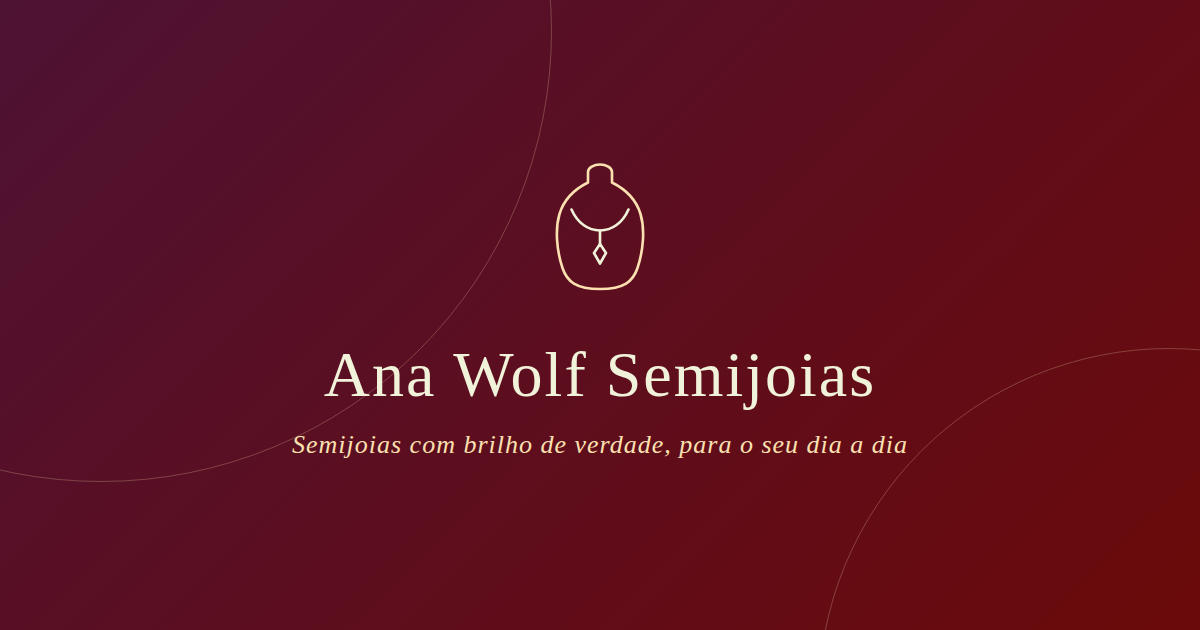
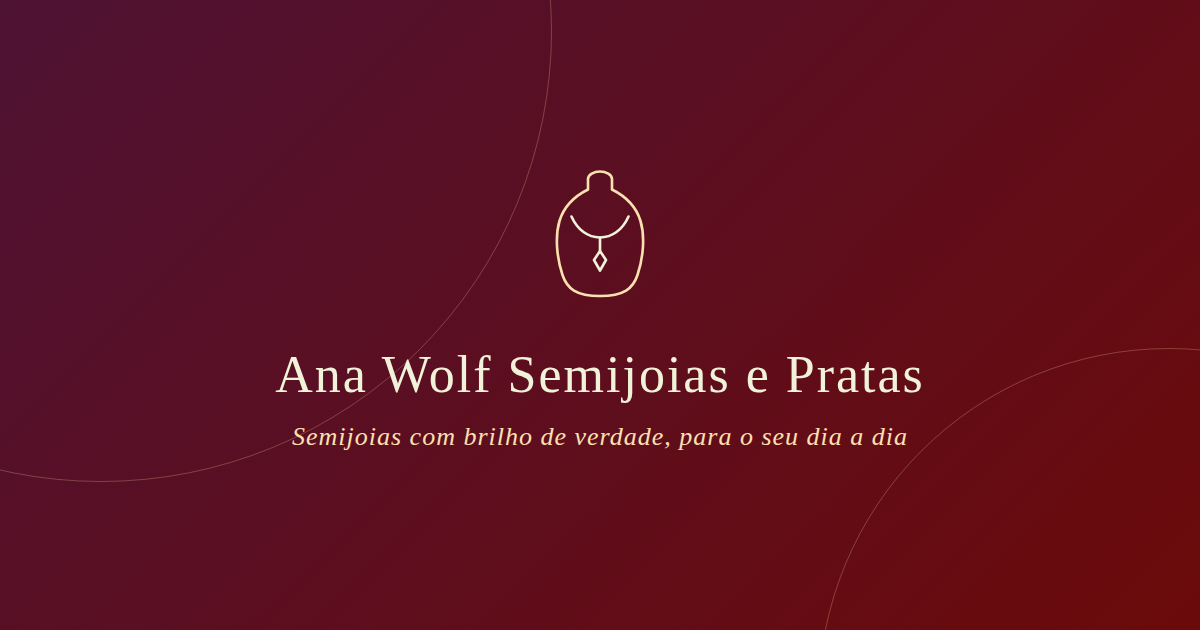
Renomeia marca para Ana Wolf Semijoias e Pratas
Atualiza título, header, hero, footer, mensagem de WhatsApp e og.png
para o novo nome. Troca o texto de rodapé que indicava ambiente de
teste por um aviso de direitos reservados com o ano atual. Também
ajusta o header para truncar o nome mais longo em telas estreitas,
evitando que ele encoste no botão do carrinho.

Changed region(s): [[0.2158, 0.5429, 0.7708, 0.6635], [0.2467, 0.6635, 0.7708, 0.7238], [0.4625, 0.2413, 0.555, 0.4825]]

diff --git a/components/Header.tsx b/components/Header.tsx
@@ -10,13 +10,15 @@ export default function Header() {
   return (
     <header className="sticky top-0 z-40 bg-vinho text-creme shadow-md">
       <div className="mx-auto flex max-w-5xl items-center justify-between px-4 py-3">
-        <Link href="/" className="flex items-center gap-2">
-          <Logo className="h-9 w-9 text-areia" />
-          <span className="font-display text-lg tracking-wide">Ana Wolf Semijoias</span>
+        <Link href="/" className="flex min-w-0 items-center gap-2">
+          <Logo className="h-9 w-9 shrink-0 text-areia" />
+          <span className="truncate font-display text-sm tracking-wide sm:text-lg">
+            Ana Wolf Semijoias e Pratas
+          </span>
         </Link>
         <Link
           href="/carrinho"
-          className="relative rounded-full border border-areia/60 px-4 py-2 text-sm font-medium text-creme transition hover:bg-areia hover:text-vinho"
+          className="relative shrink-0 rounded-full border border-areia/60 px-4 py-2 text-sm font-medium text-creme transition hover:bg-areia hover:text-vinho"
         >
           Carrinho
           {count > 0 && (

diff --git a/app/layout.tsx b/app/layout.tsx
@@ -21,23 +21,23 @@ const siteUrl = "https://anawolfsemijoias.vercel.app";
 
 export const metadata: Metadata = {
   metadataBase: new URL(siteUrl),
-  title: "Ana Wolf Semijoias",
+  title: "Ana Wolf Semijoias e Pratas",
   description: "Semijoias com brilho de verdade, para o seu dia a dia.",
   icons: {
     icon: "/icon.svg",
   },
   openGraph: {
-    title: "Ana Wolf Semijoias",
+    title: "Ana Wolf Semijoias e Pratas",
     description: "Semijoias com brilho de verdade, para o seu dia a dia.",
     url: siteUrl,
-    siteName: "Ana Wolf Semijoias",
+    siteName: "Ana Wolf Semijoias e Pratas",
     images: [{ url: "/og.png", width: 1200, height: 630 }],
     locale: "pt_BR",
     type: "website",
   },
   twitter: {
     card: "summary_large_image",
-    title: "Ana Wolf Semijoias",
+    title: "Ana Wolf Semijoias e Pratas",
     description: "Semijoias com brilho de verdade, para o seu dia a dia.",
     images: ["/og.png"],
   },

diff --git a/components/Footer.tsx b/components/Footer.tsx
@@ -8,12 +8,12 @@ export default function Footer() {
       <div className="bg-vinho text-creme">
         <div className="mx-auto flex max-w-5xl flex-col items-center gap-3 px-4 py-10 text-center">
           <Logo className="h-10 w-10 text-areia" />
-          <p className="font-display text-lg">Ana Wolf Semijoias</p>
+          <p className="font-display text-lg">Ana Wolf Semijoias e Pratas</p>
           <p className="max-w-md text-sm text-creme/80">
             Semijoias com brilho de verdade, para o seu dia a dia.
           </p>
           <p className="text-xs text-creme/60">
-            © {new Date().getFullYear()} Ana Wolf Semijoias. Protótipo — catálogo de demonstração.
+            Ana Wolf Semijoias e Pratas. Todos os direitos reservados © {new Date().getFullYear()}.
           </p>
         </div>
       </div>

diff --git a/app/page.tsx b/app/page.tsx
@@ -9,7 +9,7 @@ export default function HomePage() {
       <section className="bg-vinho-gradient px-4 py-16 text-center text-creme">
         <div className="mx-auto flex max-w-3xl flex-col items-center gap-4">
           <Logo className="h-16 w-16 text-areia" />
-          <h1 className="font-display text-3xl sm:text-4xl">Ana Wolf Semijoias</h1>
+          <h1 className="font-display text-3xl sm:text-4xl">Ana Wolf Semijoias e Pratas</h1>
           <p className="max-w-xl text-creme/85">
             Semijoias com brilho de verdade, para o seu dia a dia. Peças folheadas, atemporais e
             feitas para durar.

diff --git a/components/ui/Logo.tsx b/components/ui/Logo.tsx
@@ -6,9 +6,9 @@ type LogoProps = {
 
 /**
  * Busto expositor de joalheria com colar, em traço único (currentColor).
- * Usado como marca da Ana Wolf Semijoias em qualquer cor de texto/fundo.
+ * Usado como marca da Ana Wolf Semijoias e Pratas em qualquer cor de texto/fundo.
  */
-export default function Logo({ className, strokeWidth = 2.2, title = "Ana Wolf Semijoias" }: LogoProps) {
+export default function Logo({ className, strokeWidth = 2.2, title = "Ana Wolf Semijoias e Pratas" }: LogoProps) {
   return (
     <svg
       viewBox="0 0 200 220"

diff --git a/lib/whatsapp.ts b/lib/whatsapp.ts
@@ -20,7 +20,7 @@ export function buildOrderMessage(items: CartItem[]): string {
   }, 0);
 
   const message = [
-    "Olá! Gostaria de fazer o seguinte pedido na Ana Wolf Semijoias:",
+    "Olá! Gostaria de fazer o seguinte pedido na Ana Wolf Semijoias e Pratas:",
     "",
     ...lines,
     "",
